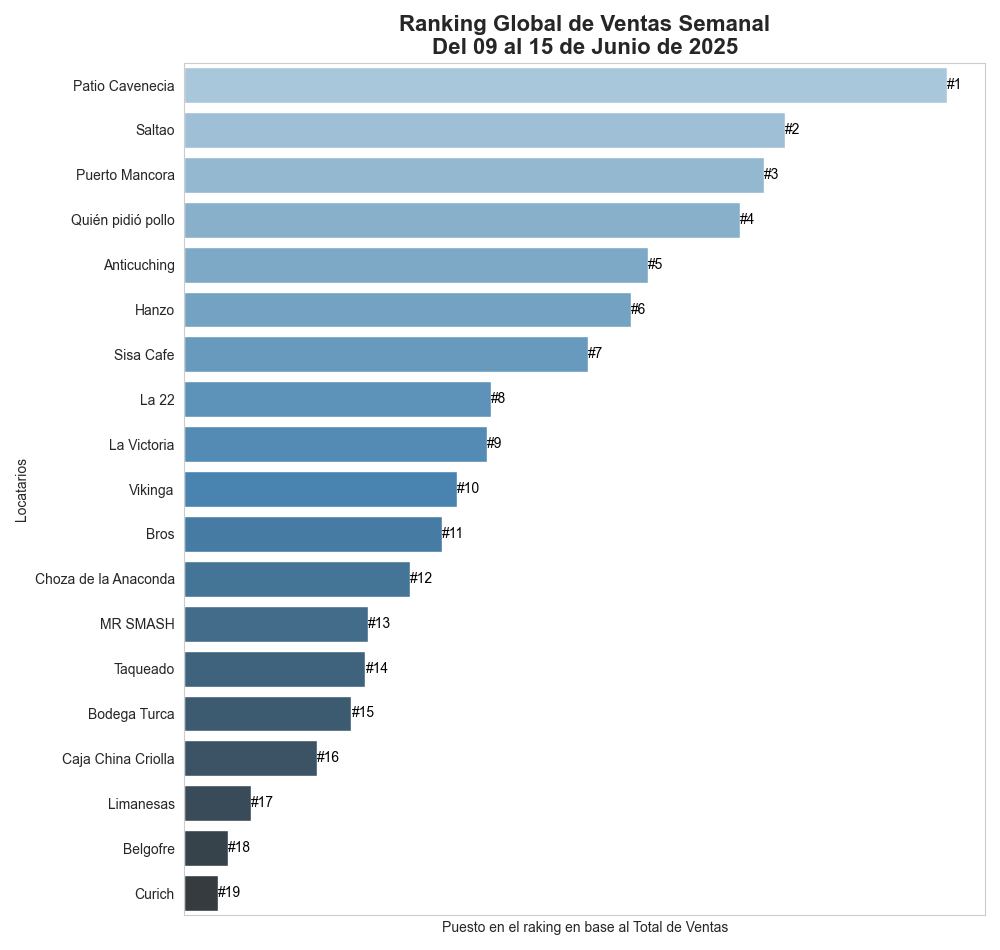
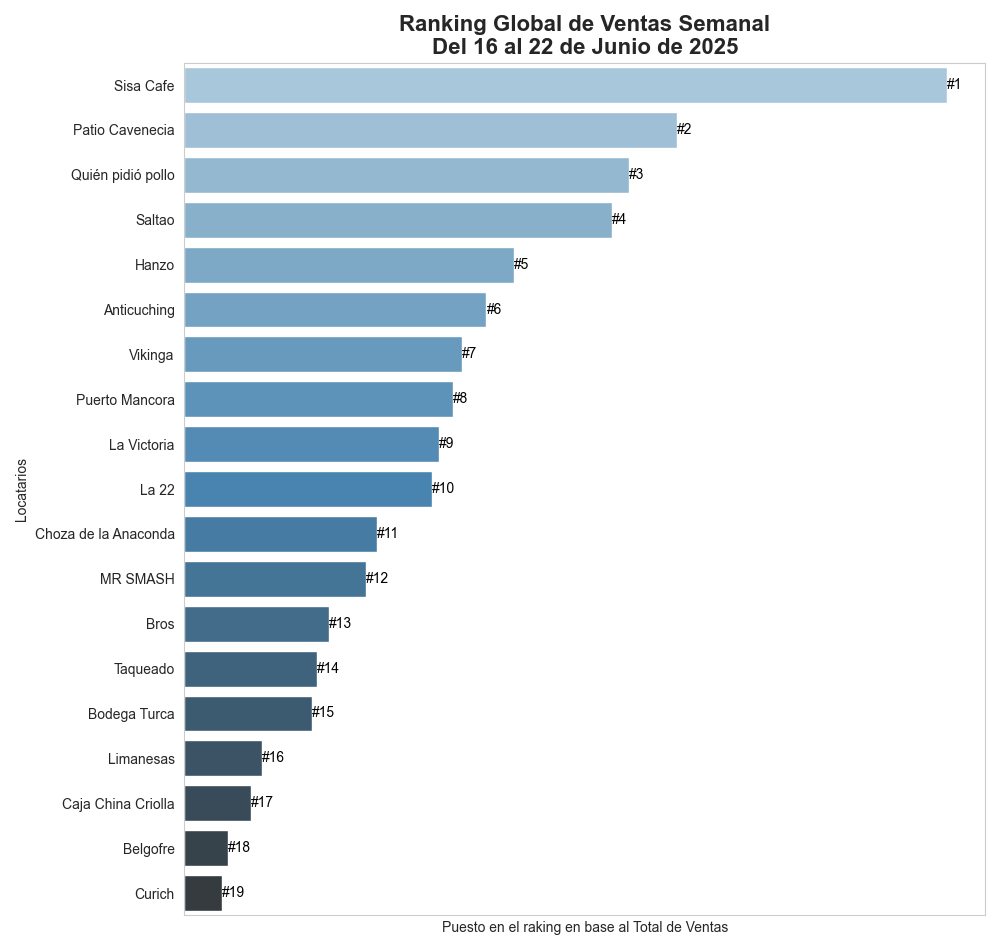
feat: Update date handling to use current year and month dynamically across reports

diff --git a/reporte2.py b/reporte2.py
@@ -55,9 +55,9 @@ credentials = service_account.Credentials.from_service_account_file(SERVICE_ACCO
 bigquery_client = bigquery.Client(project=PROJECT_ID, credentials=credentials)
 
 # === CONFIGURACIÓN DE AÑOS ===
-ANIO_ACTUAL = 2025
-ANIO_COMPARACION = 2024
-MES_ACTUAL = 6  # Junio - mes hasta el cual comparar
+ANIO_ACTUAL = datetime.now().year
+ANIO_COMPARACION = ANIO_ACTUAL - 1  
+MES_ACTUAL = datetime.now().month
 
 
 def visualizar_tabla_flujo_de_personas():
@@ -97,12 +97,12 @@ def obtener_datos_flujo_mensual(anio):
     df = bigquery_client.query(query).to_dataframe()
     
     if not df.empty:
-        print(f"✅ Datos de flujo obtenidos para {anio}: {len(df)} meses")
+        print(f"Datos de flujo obtenidos para {anio}: {len(df)} meses")
         for _, row in df.iterrows():
             mes_nombre = month_map[int(row['mes'])]
             print(f"   {mes_nombre}: {row['total_entradas']:,} entradas | {row['total_salidas']:,} salidas | {row['dias_con_datos']} días")
     else:
-        print(f"❌ No se encontraron datos de flujo para {anio}")
+        print(f" No se encontraron datos de flujo para {anio}")
     
     return df
 
@@ -274,8 +274,8 @@ def crear_grafico_comparativo_flujo(tabla_flujo):
     plt.savefig(filename, dpi=300, bbox_inches='tight')
     plt.close(fig)
     
-    print(f"\n✅ Gráfico de flujo guardado como: {filename}")
-    print(f"\n📊 RESUMEN DE FLUJO DE PERSONAS:")
+    print(f"\nGráfico de flujo guardado como: {filename}")
+    print(f"\nRESUMEN DE FLUJO DE PERSONAS:")
     print(f"   - Total entradas {ANIO_ACTUAL}: {total_actual:,}")
     print(f"   - Total entradas {ANIO_COMPARACION}: {total_anterior:,}")
     print(f"   - Diferencia: {diferencia_total:+,} ({porcentaje_total:+.1f}%)")
@@ -290,14 +290,14 @@ def generar_reporte_flujo_personas():
     print(f"Período: Enero - {month_map[MES_ACTUAL]}")
     
     # Obtener datos de ambos años
-    print(f"\n📊 Obteniendo datos de flujo para {ANIO_ACTUAL}...")
+    print(f"\nObteniendo datos de flujo para {ANIO_ACTUAL}...")
     df_actual = obtener_datos_flujo_mensual(ANIO_ACTUAL)
     
-    print(f"📊 Obteniendo datos de flujo para {ANIO_COMPARACION}...")
+    print(f"Obteniendo datos de flujo para {ANIO_COMPARACION}...")
     df_anterior = obtener_datos_flujo_mensual(ANIO_COMPARACION)
     
     if df_actual.empty and df_anterior.empty:
-        print(f"❌ No se encontraron datos de flujo para ninguno de los años")
+        print(f" No se encontraron datos de flujo para ninguno de los años")
         return None
     
     # Crear tabla comparativa
@@ -311,7 +311,7 @@ def generar_reporte_flujo_personas():
     # Crear gráfico
     crear_grafico_comparativo_flujo(tabla_flujo)
     
-    print(f"\n✅ Reporte de flujo de personas completado")
+    print(f"\nReporte de flujo de personas completado")
     
     return tabla_flujo
 
@@ -321,22 +321,12 @@ if __name__ == "__main__":
     print("=== GENERADOR DE REPORTES DE FLUJO DE PERSONAS ===")
     print(f"Análisis comparativo: {ANIO_ACTUAL} vs {ANIO_COMPARACION}")
     print(f"Período: Enero - {month_map[MES_ACTUAL]}")
-    
-    # print("\n" + "="*60)
-    # print("1. VISUALIZACIÓN DE DATOS DE MUESTRA:")
-    # print("="*60)
-    
-    # Visualizar muestra de la tabla
+  
     visualizar_tabla_flujo_de_personas()
-    
-    # print("\n" + "="*60)
-    # print("2. GENERANDO REPORTE COMPARATIVO:")
-    # print("="*60)
-    
+  
     # Generar reporte completo
     generar_reporte_flujo_personas()
     
     print("\n" + "="*60)
-    print("✅ ANÁLISIS FINALIZADO")
-    # print("📁 Revisa la carpeta 'reportes2' para ver el gráfico generado")
-    # print("="*60)
+    print("ANÁLISIS FINALIZADO")
+ 

diff --git a/reporte3.py b/reporte3.py
@@ -78,22 +78,21 @@ bigquery_client = bigquery.Client(project=PROJECT_ID, credentials=credentials)
 
 
 # Función para verfiicar si la tabla sales_df existe
-def visualizar_tabla_sales_df():
-    query = f"SELECT * FROM `{PROJECT_ID}.{DATASET_VENTAS_ID}.sales_df` LIMIT 100"
-    try:
-        df = bigquery_client.query(query).to_dataframe()
-        print("Tabla 'sales_df':")
-        print(df.head())  # Mostrar las primeras filas
-    except Exception as e:
-        print(f"Error al consultar la tabla 'sales_df': {e}")
-
+# def visualizar_tabla_sales_df():
+#     query = f"SELECT * FROM `{PROJECT_ID}.{DATASET_VENTAS_ID}.sales_df` LIMIT 100"
+#     try:
+#         df = bigquery_client.query(query).to_dataframe()
+#         print("Tabla 'sales_df':")
+#         print(df.head())  # Mostrar las primeras filas
+#     except Exception as e:
+#         print(f"Error al consultar la tabla 'sales_df': {e}")
 
 # === CONFIGURACIÓN DINÁMICA DE AÑOS ===
-ANIO_ACTUAL = 2025          
+ANIO_ACTUAL = datetime.now().year          
 ANIO_COMPARACION = ANIO_ACTUAL - 1     
 
 
-RESTAURANTE_OBJETIVO = 'Anticuching'  # Restaurante a analizar
+# RESTAURANTE_OBJETIVO = 'Anticuching'  
 
 # Función para cambiar años dinámicamente
 def configurar_anos_comparacion(anio_actual=None, anio_comparacion=None):
@@ -484,19 +483,7 @@ def obtener_datos_anio_comparacion_real(restaurante_objetivo):
     print(f" No se encontraron datos del {ANIO_COMPARACION} en ningún restaurante")
     return pd.DataFrame()    
 if __name__ == "__main__":
-    # print("=== GENERADOR DE REPORTES COMPARATIVOS DINÁMICOS ===")
-    # print(f"Restaurante objetivo: {RESTAURANTE_OBJETIVO}")
-    # print(f"Años de comparación: {ANIO_ACTUAL} vs {ANIO_COMPARACION}")
-    # print("\n🔧 Configuración dinámica de años disponible:")
-    # print("   - configurar_anos_comparacion()  # Usar valores por defecto")
-    # print("   - configurar_anos_comparacion(anio_comparacion=2023)  # 2025 vs 2023")
-    # print("   - configurar_anos_comparacion(anio_actual=2024, anio_comparacion=2022)  # 2024 vs 2022")
-    # print("\nGenerando reporte comparativo completo...")
-    # print(f"- Datos {ANIO_ACTUAL}: Reales de la base de datos (compatible con Power BI)")
-    # print(f"- Datos {ANIO_COMPARACION}: Datos reales disponibles para comparación")
-    # print("- Tabla integrada con: nro_semana, ventas_actuales, ventas_año_anterior, diferencia, diferencia_porcentual")
-    # generar_reporte_comparativo_con_tabla(RESTAURANTE_OBJETIVO)
-    
+  
     # generar reporte de todos los locatarios
     for locatario in locatarios_map:
         print(f"\nGenerando reporte para: {locatario}")

diff --git a/reporte4.py b/reporte4.py
@@ -77,20 +77,16 @@ credentials = service_account.Credentials.from_service_account_file(SERVICE_ACCO
 bigquery_client = bigquery.Client(project=PROJECT_ID, credentials=credentials)
 
 # === CONFIGURACIÓN MENSUAL ===
-MES_ACTUAL = 6  # Junio
-ANIO_ACTUAL_MENSUAL = 2025
+MES_ACTUAL = datetime.today().month
+ANIO_ACTUAL_MENSUAL = datetime.today().year
 ANIO_COMPARACION_MENSUAL = ANIO_ACTUAL_MENSUAL - 1
-# RESTAURANTE_OBJETIVO = 'Anticuching'
-# RESTAURANTE_OBJETIVO = 'Saltao'
-RESTAURANTE_OBJETIVO = 'Patio Cavenecia'
+
+# RESTAURANTE_OBJETIVO = 'Patio Cavenecia'
 NOMBRE_MES_ACTUAL = month_map[MES_ACTUAL]
 
 def configurar_analisis_mensual(anio_actual=None, mes_actual=None):
     """
     Configura el análisis mensual dinámicamente
-    Args:
-        anio_actual: Año actual para el análisis (por defecto 2025)
-        mes_actual: Mes actual para el análisis (1-12, por defecto 6=Junio)
     """
     global MES_ACTUAL, ANIO_ACTUAL_MENSUAL, ANIO_COMPARACION_MENSUAL, NOMBRE_MES_ACTUAL
     
@@ -522,27 +518,6 @@ def generar_analisis_anual_comparativo(restaurante):
 
 
 if __name__ == "__main__":
-    # print("=== GENERADOR DE ANÁLISIS ANUAL COMPARATIVO ===")
-    # print(f"Restaurante objetivo: {RESTAURANTE_OBJETIVO}")
-    # print(f"Análisis: {ANIO_ACTUAL_MENSUAL} vs {ANIO_COMPARACION_MENSUAL}")
-    
-    # print("\n🔧 Configuración dinámica disponible:")
-    # print("   - configurar_analisis_mensual()  # Usar valores por defecto")
-    # print("   - configurar_analisis_mensual(anio_actual=2024)  # Analizar 2024 vs 2023")
-    
-    # print("\n" + "="*60)
-    # print("EJECUTANDO ANÁLISIS ANUAL COMPARATIVO:")
-    # print("="*60)
-    
-    # # Análisis anual comparativo (gráficos de líneas y tablas)
-    # print("\nANÁLISIS ANUAL COMPARATIVO")
-    # print("-" * 40)
-    # generar_analisis_anual_comparativo(RESTAURANTE_OBJETIVO)
-    
-    # print("\n" + "="*60)
-    # print("ANÁLISIS FINALIZADO")
-    # print("Revisa la carpeta 'reportes4' para ver los gráficos de líneas y tablas generados")
-    # print("="*60)
     
     for locatario in locatarios_map:
         print(f"\n Iniciando análisis para: {locatario}")

diff --git a/reporte1.py b/reporte1.py
@@ -52,12 +52,15 @@ TABLE_NEGOCIOS_ID = 'Negocios'
 # FECHA_INICIO = '2025-06-09'
 # FECHA_FIN = '2025-06-15'
  
- # FECHA_FIN es el último día de la semana (domingo) y FECHA_INICIO es el primer día de la semana (lunes), cálculo automático
-FECHA_FIN = datetime.today().date()
+# FECHA_FIN es el último día de la semana (domingo) y FECHA_INICIO es el primer día de la semana (lunes), cálculo automático
+hoy = datetime.today()
+FECHA_FIN = hoy - timedelta(days=(hoy.weekday() - 6) % 7)
 FECHA_INICIO = FECHA_FIN - timedelta(days=6)
-
+FECHA_FIN = FECHA_FIN.strftime('%Y-%m-%d')
+FECHA_INICIO = FECHA_INICIO.strftime('%Y-%m-%d')
 
 LOCATARIO_EXCLUIDO = 'Bar Refugio'
+
 
 # BigQuery client
 credentials = service_account.Credentials.from_service_account_file(SERVICE_ACCOUNT_FILE)
